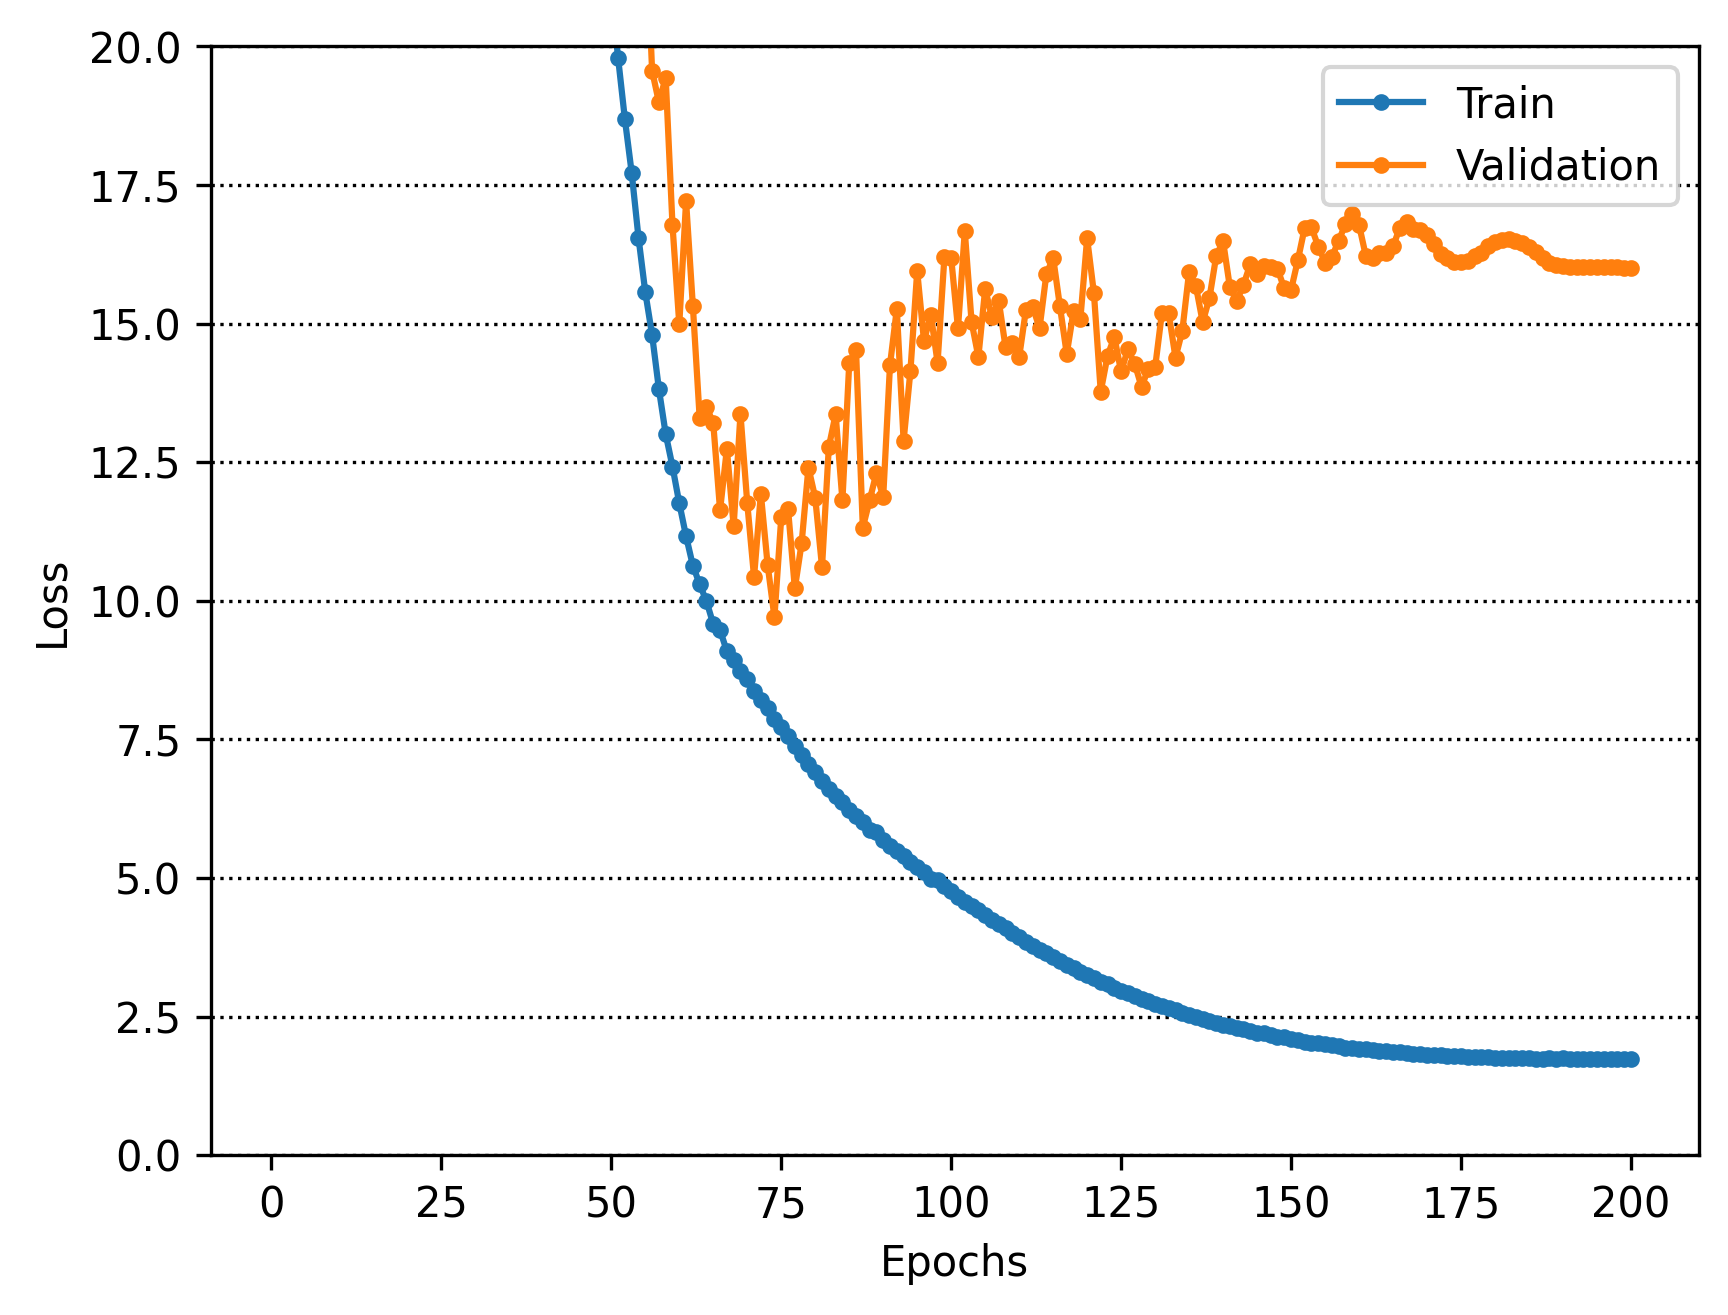
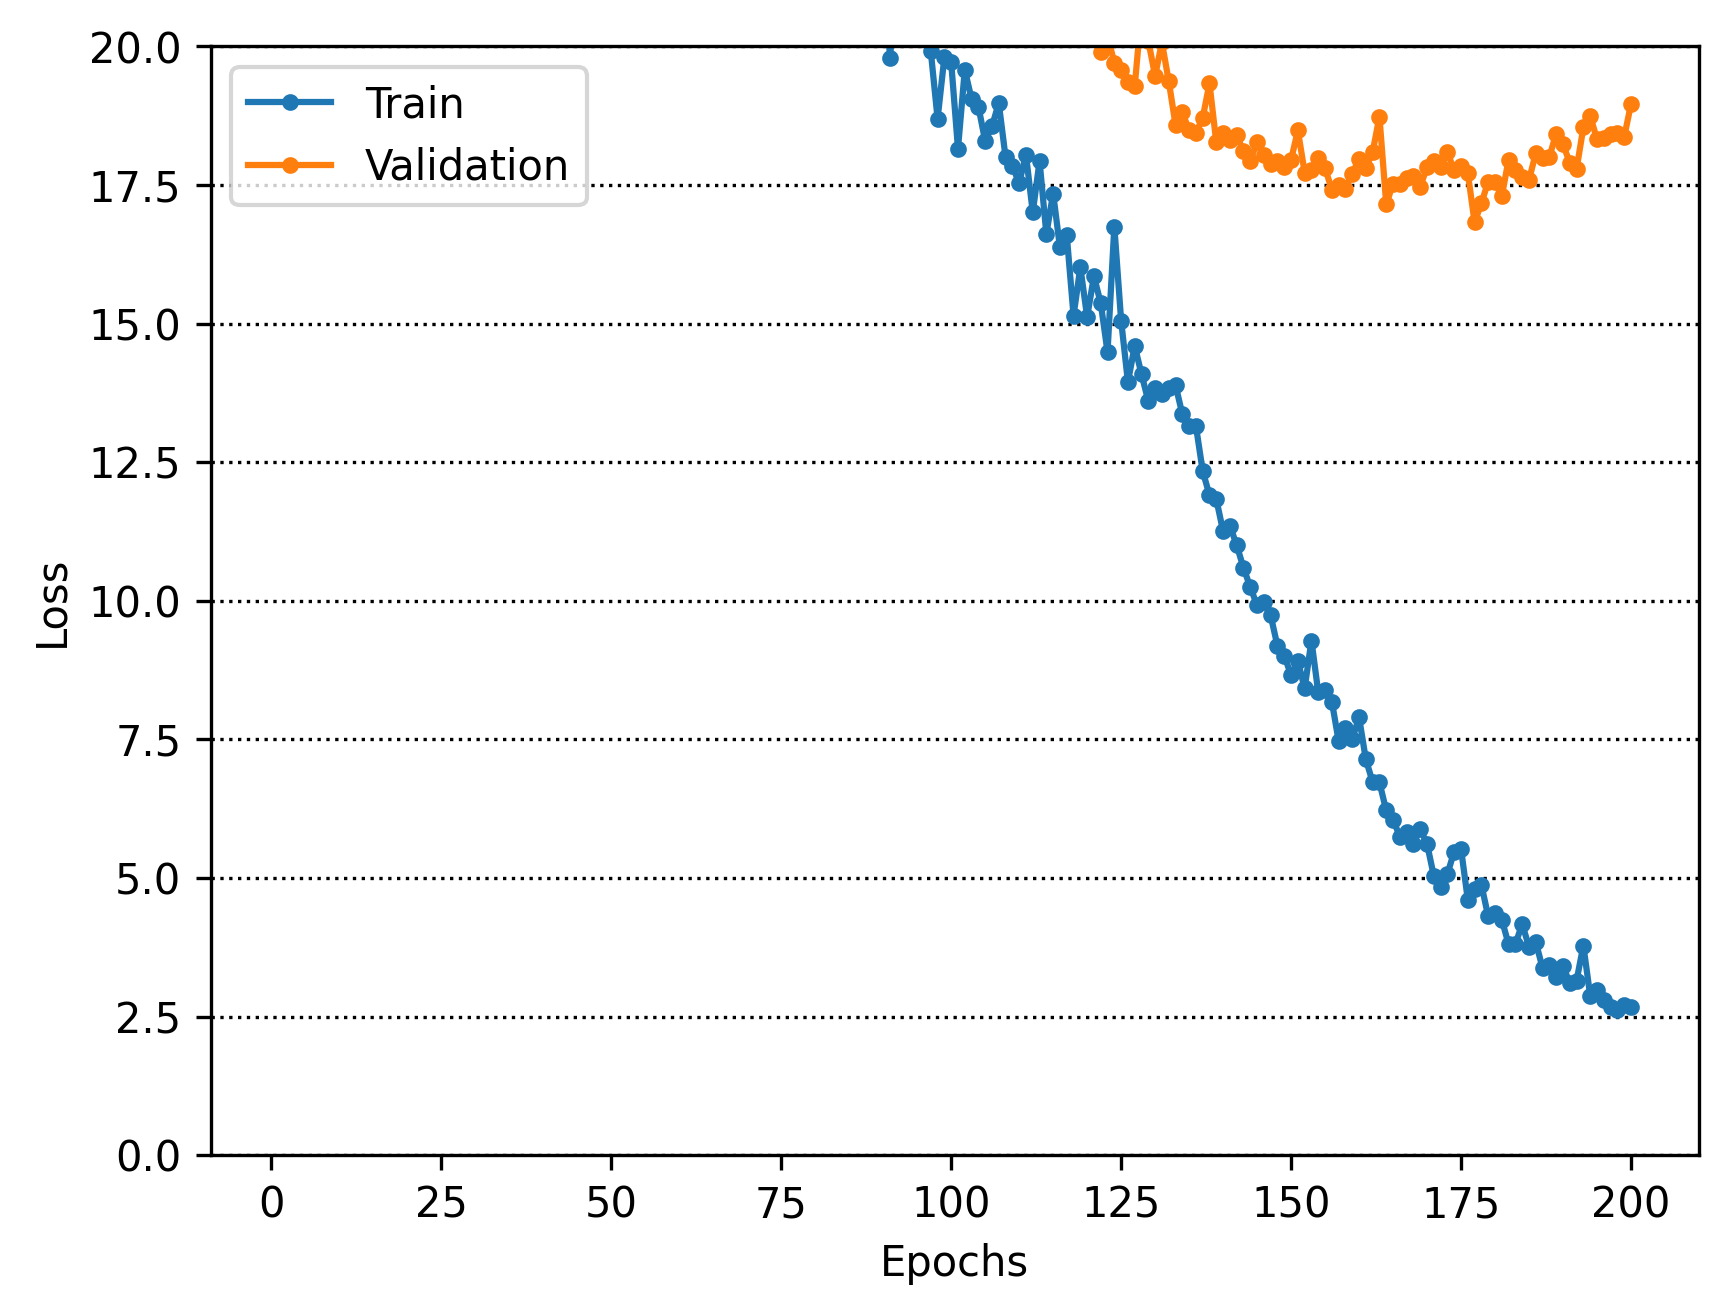
add: middle_datasetを使えるように修正

diff --git a/ContinuousSignLanguage/CNN_BiLSTM/continuous_sign_language/modeling/functions.py b/ContinuousSignLanguage/CNN_BiLSTM/continuous_sign_language/modeling/functions.py
@@ -112,7 +112,7 @@ def train_loop(
         feature_pad_mask = batch_sample["feature_pad_mask"]
         spatial_feature_pad_mask = batch_sample["spatial_feature_pad_mask"]
         tokens_pad_mask = batch_sample["token_pad_mask"]
-
+        feature_lengths = batch_sample["feature_lengths"]
         # check_tokens_format(tokens, tokens_pad_mask, start_id, end_id)
 
         feature = feature.to(device)
@@ -121,21 +121,11 @@ def train_loop(
         feature_pad_mask = feature_pad_mask.to(device)
         spatial_feature_pad_mask = spatial_feature_pad_mask.to(device)
         tokens_pad_mask = tokens_pad_mask.to(device)
-        
         frames = feature.shape[-2]
 
         # Predict.
-        input_lengths = [
-            (
-                len(feature[i][0]) / 2
-                if len(feature[i][0]) % 2 == 0
-                else len(feature[i][0]) // 2 - 1
-            )
-            for i in range(len(feature))
-        ]
-        input_lengths = torch.tensor(input_lengths, dtype=torch.long)
-        target_lengths = [len(tokens[i]) for i in range(len(tokens))]
-        target_lengths = torch.tensor(target_lengths, dtype=torch.long)
+        input_lengths = feature_lengths
+        target_lengths = target_lengths = torch.sum(tokens_pad_mask, dim=1)
         pred_start = time.perf_counter()
         loss, log_probs = model.forward(
             src_feature=feature,
@@ -143,8 +133,8 @@ def train_loop(
             tgt_feature=tokens,
             src_causal_mask=None,
             src_padding_mask=feature_pad_mask,
-            input_lengths=input_lengths,  # 後修正
-            target_lengths=target_lengths,  # 修正
+            input_lengths=input_lengths,
+            target_lengths=target_lengths,
             mode="train",
         )
         print("loss", loss)
@@ -215,6 +205,7 @@ def val_loop(dataloader, model, device, return_pred_times=False, current_epoch=N
             feature_pad_mask = batch_sample["feature_pad_mask"]
             spatial_feature_pad_mask = batch_sample["spatial_feature_pad_mask"]
             tokens_pad_mask = batch_sample["token_pad_mask"]
+            feature_lengths = batch_sample["feature_lengths"]
 
             feature = feature.to(device)
             spatial_feature = spatial_feature.to(device)
@@ -226,12 +217,8 @@ def val_loop(dataloader, model, device, return_pred_times=False, current_epoch=N
             frames = feature.shape[-2]
 
             # Predict.
-            input_lengths = torch.tensor(
-                [feature[i].shape[-1] - 20 for i in range(len(feature))],
-                dtype=torch.long,
-            )
-            target_lengths = [len(tokens[i]) for i in range(len(tokens))]
-            target_lengths = torch.tensor(target_lengths, dtype=torch.long)
+            input_lengths = feature_lengths
+            target_lengths = target_lengths = torch.sum(tokens_pad_mask, dim=1)
             pred_start = time.perf_counter()
             val_loss, log_probs = model.forward(
                 src_feature=feature,
@@ -239,8 +226,8 @@ def val_loop(dataloader, model, device, return_pred_times=False, current_epoch=N
                 tgt_feature=tokens,
                 src_causal_mask=None,
                 src_padding_mask=feature_pad_mask,
-                input_lengths=input_lengths,  #
-                target_lengths=target_lengths,  # 修正
+                input_lengths=input_lengths,
+                target_lengths=target_lengths,
                 mode="eval",
                 current_epoch=current_epoch,  # エポック情報の追加
             )
@@ -285,6 +272,7 @@ def test_loop(dataloader, model, device, return_pred_times=False, blank_id=100):
             feature_pad_mask = batch_sample["feature_pad_mask"]
             spatial_feature_pad_mask = batch_sample["spatial_feature_pad_mask"]
             tokens_pad_mask = batch_sample["token_pad_mask"]
+            feature_lengths = batch_sample["feature_lengths"]
 
             feature = feature.to(device)
             spatial_feature = spatial_feature.to(device)
@@ -315,17 +303,10 @@ def test_loop(dataloader, model, device, return_pred_times=False, blank_id=100):
             stride = model_config.stride
             padding = model_config.padding
 
-            input_lengths = torch.tensor(
-                [(T + 2 * padding - kernel_size) // stride + 1 for _ in range(N)],
-                device=device,
-            )
+            input_lengths = feature_lengths
 
             # ターゲット長の計算（実際のトークン長を使用）
             target_lengths = torch.sum(tokens_pad_mask, dim=1)
-
-            print(
-                f"シーケンス情報 - 入力長: {T}, CNN後の推定長: {input_lengths[0].item()}, ターゲット長: {target_lengths[0].item()}"
-            )
 
             # Predict.
             pred_start = time.perf_counter()

diff --git a/ContinuousSignLanguage/CNN_BiLSTM/models/cnn_bilstm_model.py b/ContinuousSignLanguage/CNN_BiLSTM/models/cnn_bilstm_model.py
@@ -69,7 +69,7 @@ class CNNBiLSTMModel(nn.Module):
         # self._initialize_weights()
 
         # ログソフトマックス（CTC損失用）
-        gloss_dict = {'<blank>': [0], 'I': [1], 'Like': [2], 'Dislike': [3], 'banna': [4], 'apple': [5], '<pad>': [6]}
+        gloss_dict = {'<blank>': [0], 'i': [1], 'you': [2], 'he': [3], 'teacher': [4], 'friend': [5], 'today': [6], 'tomorrow': [7], 'school': [8], 'hospital': [9], 'station': [10], 'go': [11], 'come': [12], 'drink': [13], 'like': [14], 'dislike': [15], 'busy': [16], 'use': [17], 'meet': [18], 'where': [19], 'question': [20], 'pp': [21], 'with': [22], 'water': [23], 'food': [24], 'money': [25], 'apple': [26], 'banana': [27], '<pad>': [28]}
         self.decoder = decode.Decode(gloss_dict=gloss_dict, num_classes=num_classes, search_mode="max", blank_id=blank_idx)
 
     def _initialize_weights(self):
@@ -153,29 +153,26 @@ class CNNBiLSTMModel(nn.Module):
         # 入力データにNaN値があるかチェック
         if torch.isnan(src_feature).any():
             print("警告: 入力src_featureにNaN値が検出されました")
-
+            exit(1)
         # 無限大の値があるかチェック
         if torch.isinf(src_feature).any():
             print("警告: 入力src_featureに無限大の値が検出されました")
         # 数値安定性のための正規化を追加
         # src_feature形状は[batch, C*J, T]なので、dim=2ではなくdim=1に沿って正規化
-        eps = 1e-5
-        src_mean = src_feature.mean(dim=1, keepdim=True)
-        src_std = src_feature.std(dim=1, keepdim=True) + eps
-        src_feature = (src_feature - src_mean) / src_std
+        # eps = 1e-5
+        # src_mean = src_feature.mean(dim=1, keepdim=True)
+        # src_std = src_feature.std(dim=1, keepdim=True) + eps
+        # src_feature = (src_feature - src_mean) / src_std
 
-        # 大きすぎる値や小さすぎる値をクリップ
-        src_feature = torch.clamp(src_feature, min=-5.0, max=5.0)
-        print(src_feature.shape, "src_feature.shape")
+        # # 大きすぎる値や小さすぎる値をクリップ
+        # src_feature = torch.clamp(src_feature, min=-5.0, max=5.0)
+        # print(src_feature.shape, "src_feature.shape")
         # cnn_out = self.cnn_model(src_feature)  # return [batch, 512, T']
         cnn_out, cnn_logit, updated_lgt = self.cnn_model(
             skeleton_feat=src_feature, hand_feat=spatial_feature, lgt=input_lengths
         )
+        print(cnn_out.shape, "cnn_out.shape", src_feature.shape, "src_feature.shape", input_lengths[0].shape, "input_lengths.shape", input_lengths[1].shape)
 
-        print(cnn_out.shape, "cnn_out.shape")  # [batch, T', 192]
-
-        # cnn_out = cnn_out.permute(0, 2, 1)  # (batch, T', 512)
-        # print(cnn_out.shape, "cnn_out.shape") #[batch, T', 192]
         if torch.isnan(cnn_out).any():
             print("層1の出力にNaN値が検出されました")
             # 問題のある入力値の確認
@@ -183,6 +180,7 @@ class CNNBiLSTMModel(nn.Module):
             print(
                 f"問題がある入力の要素: {cnn_out[problem_indices[0][0], problem_indices[1][0], problem_indices[2][0]]}"
             )
+            exit(1)
 
         # パディングマスクのサイズをCNN出力のシーケンス長に合わせる
         if src_padding_mask is not None:
@@ -210,7 +208,9 @@ class CNNBiLSTMModel(nn.Module):
 
 
         # # クラス分類
-        # logits = self.classifier(tr_out)  # (batch, T', num_classes)
+        print(f"updated_lgt: {updated_lgt}")
+        print(f"updated_lgtの形状: {updated_lgt.shape}")
+        print(f"updated_lgtの値: {updated_lgt.tolist()}")
         tm_outputs = self.temporal_model(cnn_out, updated_lgt)
         print(tm_outputs["predictions"].shape, "tm_outputs['predictions'].shape")
         outputs = self.classifier(tm_outputs["predictions"])  # (batch, T', num_classes)

diff --git a/ContinuousSignLanguage/CNN_BiLSTM/models/one_dcnn.py b/ContinuousSignLanguage/CNN_BiLSTM/models/one_dcnn.py
@@ -724,7 +724,7 @@ class TemporalConv(nn.Module):
         elif self.conv_type == 6:
             self.kernel_size = ["P2", "K5", "K5"]
         elif self.conv_type == 7:
-            self.kernel_size = ["P2", "K5", "P2", "K5"]
+            self.kernel_size = ["P2", "K7", "P2", "K7"]
         elif self.conv_type == 8:
             self.kernel_size = ["P2", "P2", "K5", "K5"]
 
@@ -867,7 +867,7 @@ class DualFeatureTemporalConv(nn.Module):
         elif self.conv_type == 6:
             kernel_size = ["P2", "K5", "K5"]
         elif self.conv_type == 7:
-            kernel_size = ["P2", "K5", "P2", "K5"]
+            kernel_size = ["P2", "K7", "P2", "K7"]
         elif self.conv_type == 8:
             kernel_size = ["P2", "P2", "K5", "K5"]
 
@@ -923,7 +923,7 @@ class DualFeatureTemporalConv(nn.Module):
                 or self.conv_type == 6
                 and ["P2", "K5", "K5"]
                 or self.conv_type == 7
-                and ["P2", "K5", "P2", "K5"]
+                and ["P2", "K7", "P2", "K7"]
                 or ["P2", "P2", "K5", "K5"]
             )
         ):

diff --git a/ContinuousSignLanguage/CNN_BiLSTM/continuous_sign_language/dataset.py b/ContinuousSignLanguage/CNN_BiLSTM/continuous_sign_language/dataset.py
@@ -243,6 +243,8 @@ def merge_padded_batch(
         f"spatial_feature: {merged_spatial_feature.shape}, "
         f"feature: {batch[0]['feature'].shape}"
     )
+    feature_lengths = torch.sum(feature_pad_mask, dim=1)
+
 
     token_pad_mask = torch.logical_not(merged_token == token_padding_val)
     retval = {
@@ -252,5 +254,6 @@ def merge_padded_batch(
         "feature_pad_mask": feature_pad_mask,
         "spatial_feature_pad_mask": spatial_feature_pad_mask,
         "token_pad_mask": token_pad_mask,
+        "feature_lengths": feature_lengths,
     }
     return retval

diff --git a/ContinuousSignLanguage/CNN_BiLSTM/continuous_sign_language/config.py b/ContinuousSignLanguage/CNN_BiLSTM/continuous_sign_language/config.py
@@ -1,6 +1,6 @@
 import numpy as np
 #dataset
-read_dataset_dir = "../hdf5/test_data/"
+read_dataset_dir = "../hdf5/middle_dataset/"
 test_number = "003"
 val_number = "002"
 
